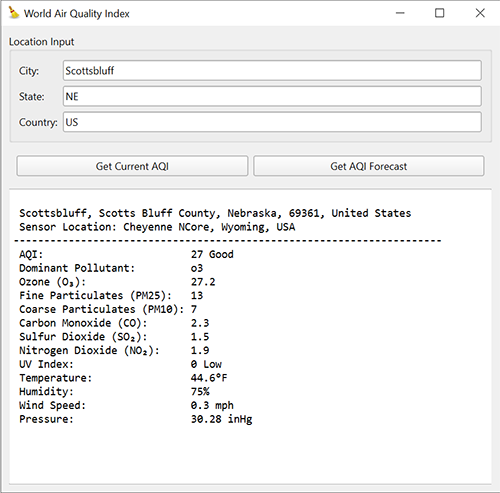
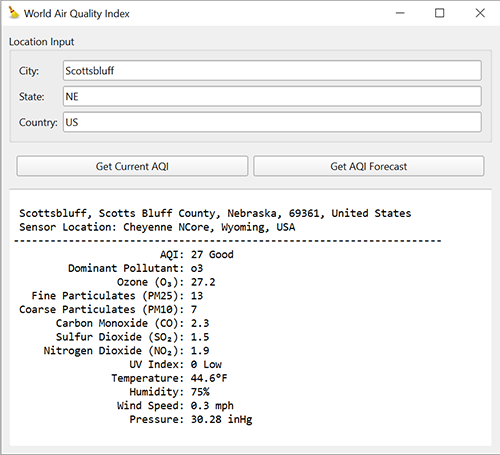
Update PySide6

diff --git a/PySide6/aqicn_pyside.py b/PySide6/aqicn_pyside.py
@@ -179,19 +179,19 @@ class AQICNGui(QMainWindow, Ui_MainWindow):
         result = f"\n {self.address}\n"
         result += f" {'Sensor Location:':<15} {self.sensor_location}\n"
         result += f"{'-'*70}\n"
-        result += f" {'AQI:':<27} {self.aqi} {self.aqi_string}\n"
-        result += f" {'Dominant Pollutant:':<27} {self.dom_pol}\n"
-        result += f" {'Ozone (O₃):':<27} {self.o3}\n"
-        result += f" {'Fine Particulates (PM25):':<27} {self.pm25}\n"
-        result += f" {'Coarse Particulates (PM10):':<27} {self.pm10}\n"
-        result += f" {'Carbon Monoxide (CO):':<27} {self.co}\n"
-        result += f" {'Sulfur Dioxide (SO₂):':<27} {self.so2}\n"
-        result += f" {'Nitrogen Dioxide (NO₂):':<27} {self.no2}\n"
-        result += f" {'UV Index:':<27} {self.uvi} {self.uvi_string}\n"
-        result += f" {'Temperature:':<27} {self.temperature}°F\n"
-        result += f" {'Humidity:':<27} {self.humidity}%\n"
-        result += f" {'Wind Speed:':<27} {self.wind_speed_mph} mph\n"
-        result += f" {'Pressure:':<27} {self.pressure} inHg\n"
+        result += f" {'AQI:':>27} {self.aqi} {self.aqi_string}\n"
+        result += f" {'Dominant Pollutant:':>27} {self.dom_pol}\n"
+        result += f" {'Ozone (O₃):':>27} {self.o3}\n"
+        result += f" {'Fine Particulates (PM25):':>27} {self.pm25}\n"
+        result += f" {'Coarse Particulates (PM10):':>27} {self.pm10}\n"
+        result += f" {'Carbon Monoxide (CO):':>27} {self.co}\n"
+        result += f" {'Sulfur Dioxide (SO₂):':>27} {self.so2}\n"
+        result += f" {'Nitrogen Dioxide (NO₂):':>27} {self.no2}\n"
+        result += f" {'UV Index:':>27} {self.uvi} {self.uvi_string}\n"
+        result += f" {'Temperature:':>27} {self.temperature}°F\n"
+        result += f" {'Humidity:':>27} {self.humidity}%\n"
+        result += f" {'Wind Speed:':>27} {self.wind_speed_mph} mph\n"
+        result += f" {'Pressure:':>27} {self.pressure} inHg\n"
 
         self.resultsTextEdit.append(result)
 
